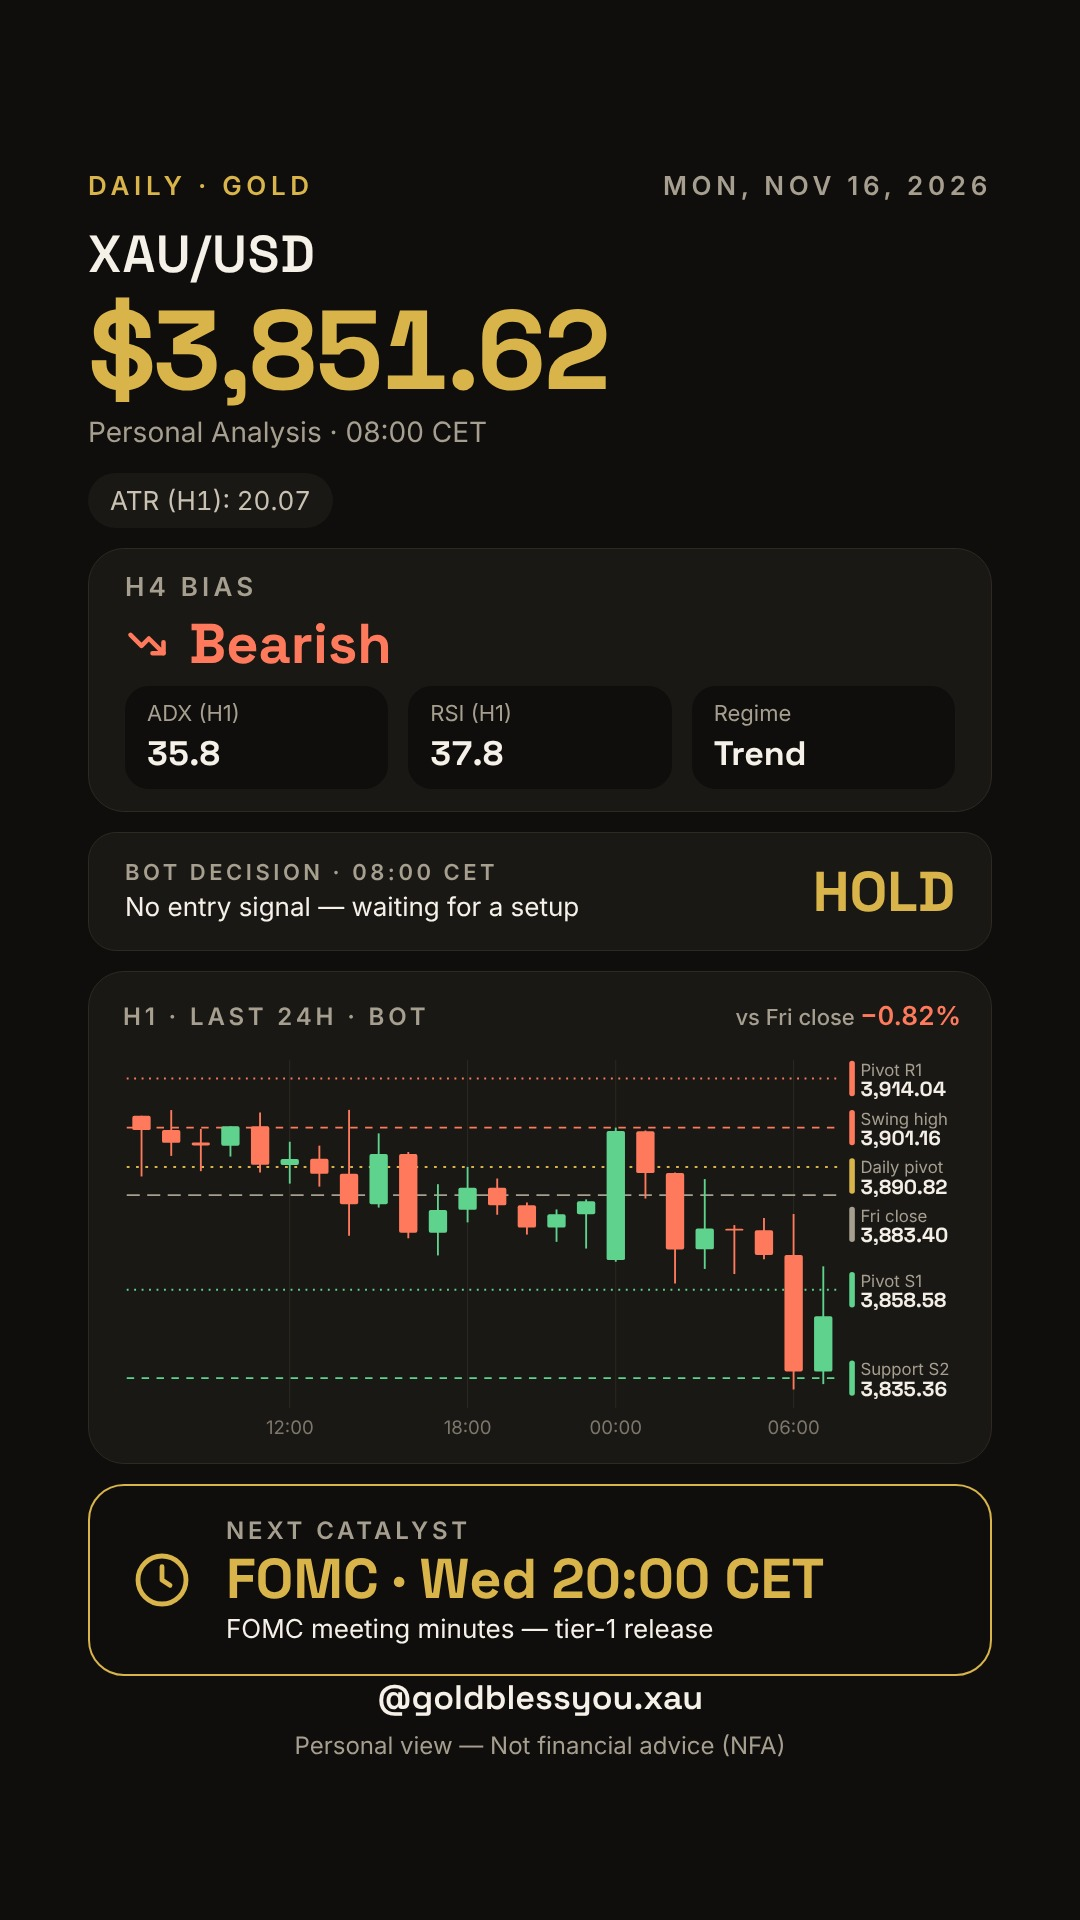
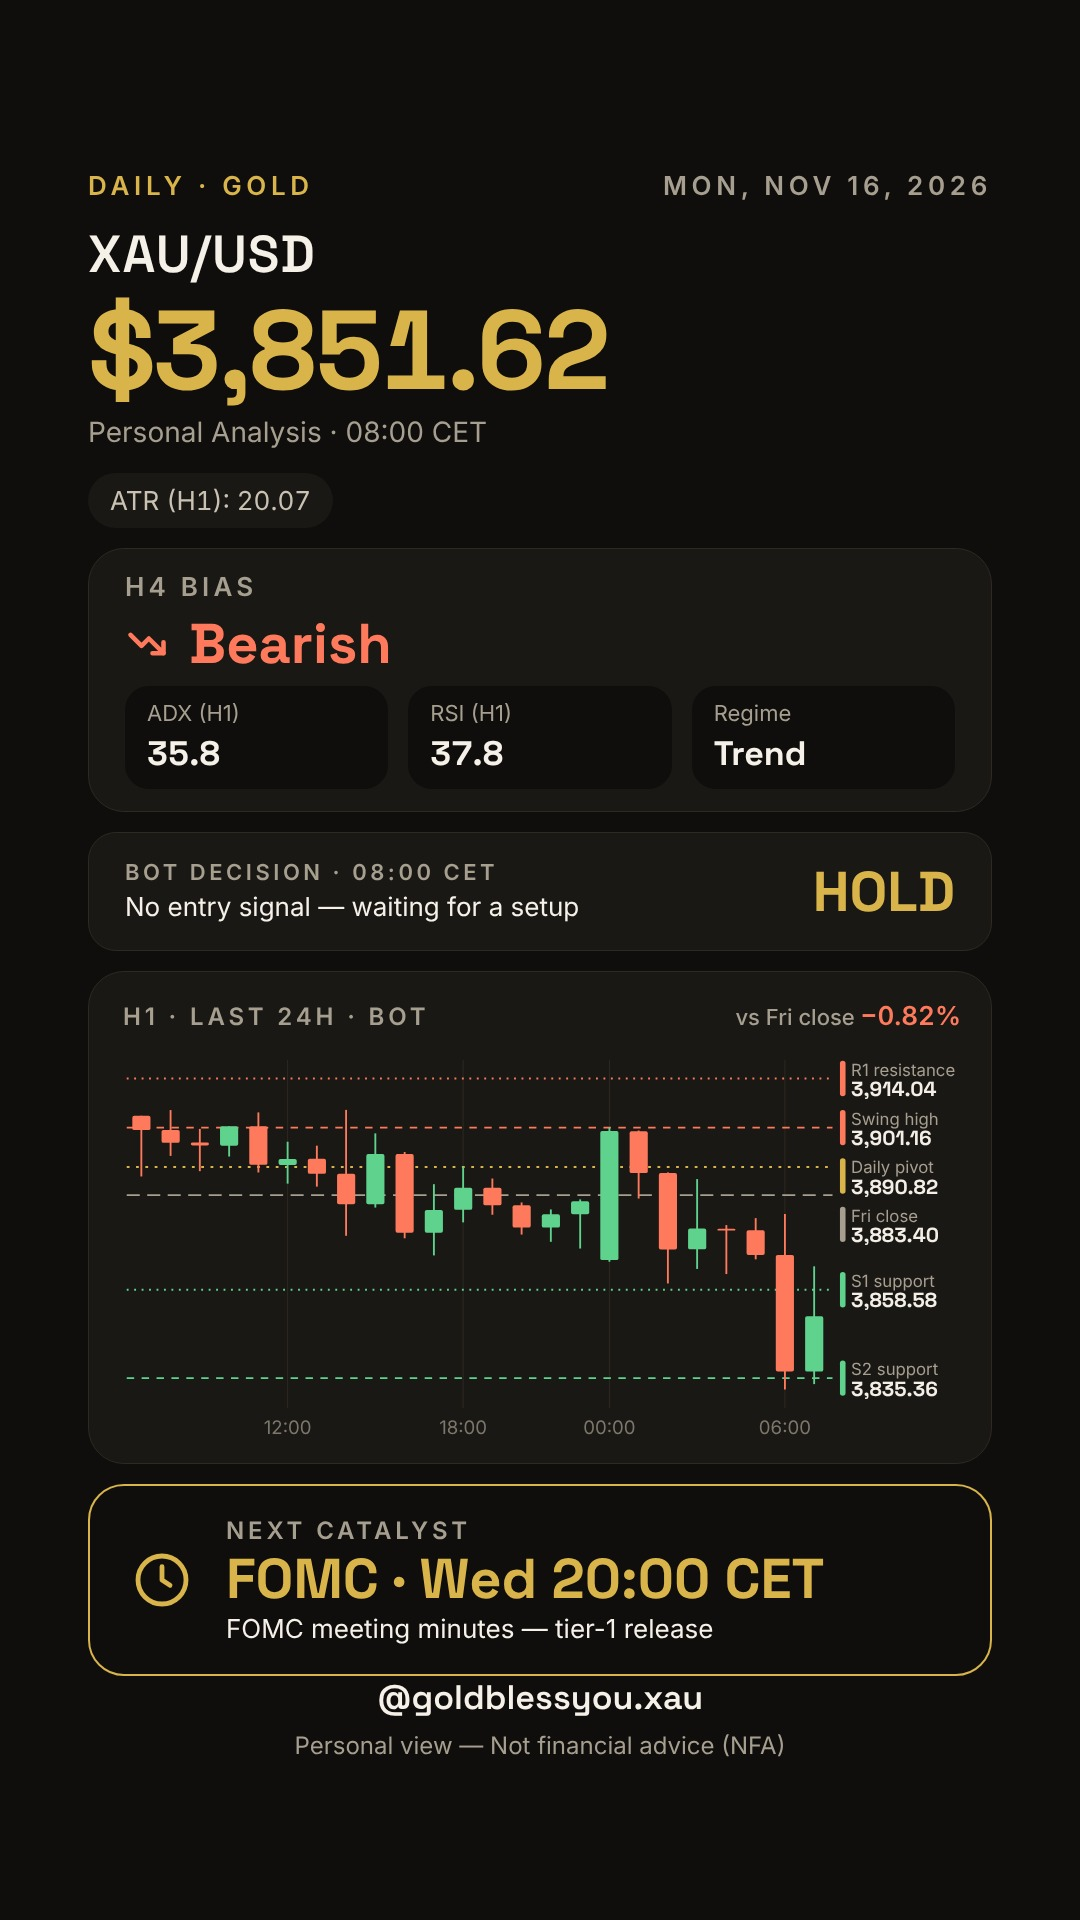
Daily: pivot labels as R1 resistance / Sx support; story 2026-11-16 re-rendered

diff --git a/tools/render_daily.py b/tools/render_daily.py
@@ -105,7 +105,8 @@ def build_chart(candles, levels, prev_close, price=None):
     if len(cs) < 2:
         return ""
     levels = levels or {}
-    src = lambda base, k: {"swing_high": "Swing high", "swing_low": "Swing low", "R1": "Pivot R1", "S1": "Pivot S1"}.get(
+    src = lambda base, k: {"swing_high": "Swing high", "swing_low": "Swing low",
+                           **{f"R{i}": f"R{i} resistance" for i in (1, 2, 3)}, **{f"S{i}": f"S{i} support" for i in (1, 2, 3)}}.get(
         levels.get(k), f"{base} {levels[k]}" if levels.get(k) else base)
     lines = [(src("Resistance", "key_resistance_src"), first(levels, "key_resistance", "resistance"), BEAR, "8 8"),
              ("Daily pivot", (levels.get("pivots") or {}).get("pivot"), GOLD, "3 7"),
@@ -114,11 +115,11 @@ def build_chart(candles, levels, prev_close, price=None):
              (src("Support", "key_support_src"), first(levels, "key_support", "support"), BULL, "8 8")]
     piv = levels.get("pivots") or {}
     if levels.get("key_resistance_src") not in (None, "R1") and piv.get("pivot_r1") is not None:
-        lines.append(("Pivot R1", piv["pivot_r1"], BEAR, "2 6"))     # R1 toujours visible, meme si un swing est plus proche
+        lines.append(("R1 resistance", piv["pivot_r1"], BEAR, "2 6"))     # R1 toujours visible, meme si un swing est plus proche
     if levels.get("key_support_src") not in (None, "S1") and piv.get("pivot_s1") is not None:
-        lines.append(("Pivot S1", piv["pivot_s1"], BULL, "2 6"))     # idem pour S1
+        lines.append(("S1 support", piv["pivot_s1"], BULL, "2 6"))     # idem pour S1
     lines = [x for x in lines if x[1] is not None]
-    W, H, L, R, T, B = 900, 430, 4, 132, 16, 40
+    W, H, L, R, T, B = 900, 430, 4, 142, 16, 40
     vals = [c["h"] for c in cs] + [c["l"] for c in cs] + [v for _, v, _, _ in lines]
     lo, hi = min(vals), max(vals)
     pad = (hi - lo) * 0.06 or 1
